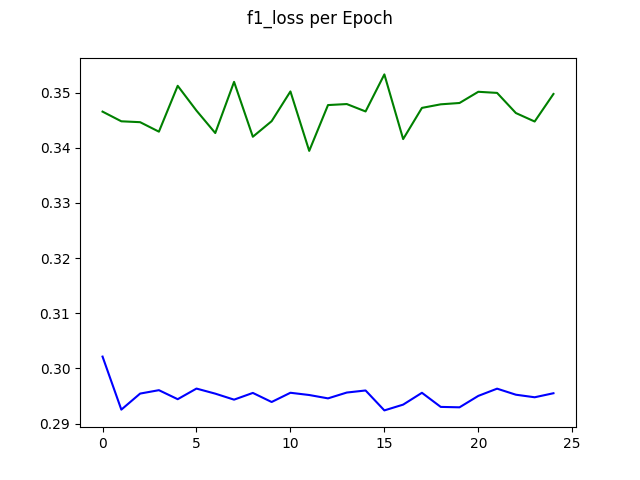
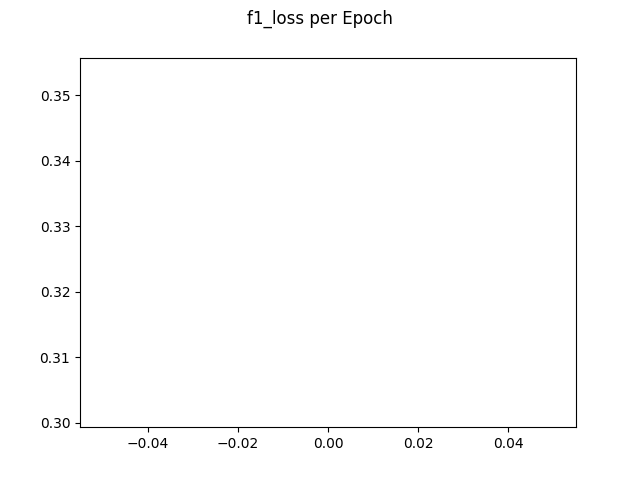
fixed fine tune bug

diff --git a/src/configurations/models/transfer_cnn.py b/src/configurations/models/transfer_cnn.py
@@ -56,16 +56,17 @@ def create_transfer_model(num_outputs,
                           mlp_units=1024,
                           **kwargs):
     input_shape = (kwargs["img_size"]) + (3,)
-    inputs = Input(input_shape)
+    # inputs = Input(input_shape)
 
     # create the base pre-trained model
+    print(input_shape)
     base_model = imagenet_dict[base_model](
         weights='imagenet', include_top=False, input_shape=input_shape)
 
     # add a global spatial average pooling layer
 
-    x = base_model(inputs)
-    x = Flatten()(x)
+    # x = base_model(inputs)
+    x = Flatten()(base_model.output)
     # x = Dropout(0.5)(x)
     # let's add a fully-connected layer
     # x = Dense(mlp_units)(x)
@@ -76,7 +77,7 @@ def create_transfer_model(num_outputs,
     predictions = Dense(num_outputs, activation='sigmoid')(x)
 
     # this is the model we will train
-    model = Model(inputs=inputs, outputs=predictions)
+    model = Model(inputs=base_model.input, outputs=predictions)
 
     return model, base_model
 
@@ -128,11 +129,11 @@ def transfer_model_fine_tune(num_outputs,
                  (first_trainable_index, len(base_model_net.layers)))
     for layer in base_model_net.layers[:first_trainable_index]:
         # for layer in base_model_net.layers[:-34]:
-        layer.trainable = True
+        layer.trainable = False
 
     # compile the model (done *after* setting layers to non-trainable)
     model.compile(
-        optimizer=SGD(lr=0.0001, momentum=0.9, nesterov=True),
+        optimizer=SGD(lr=0.0001, momentum=0.9),
         loss="binary_crossentropy",
         metrics=["accuracy", f1_loss])
     logging.info("Model is using losses %s" % model.loss_functions[0].__name__)

diff --git a/src/run_model.py b/src/run_model.py
@@ -108,15 +108,9 @@ def train_model(model: Model,
             save_weights_only=True,
             mode="min",
             verbose=1),
-                    Plotter(
-            monitor="loss",
-            scale="linear",
-            plot_during_train=plot,
-            save_to_file=utils.get_plot_path(model.run_id),
-            block_on_end=False),
         Plotter(
             monitor="loss",
-            scale="linear",
+            scale="log",
             plot_during_train=plot,
             save_to_file=utils.get_plot_path(model.run_id),
             block_on_end=False),

diff --git a/src/utils/data_utils.py b/src/utils/data_utils.py
@@ -12,7 +12,7 @@ from pyjet.data import ImageDataset
 
 MAX_LABEL = 228
 MIN_LABEL = 1
-NUM_LABELS = 225  #MAX_LABEL - MIN_LABEL + 1
+NUM_LABELS = MAX_LABEL - MIN_LABEL + 1
 
 
 MIN_IMG_ID = 1
